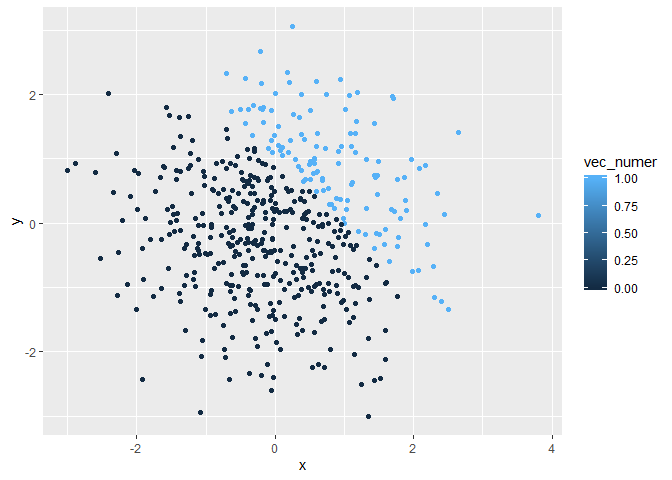
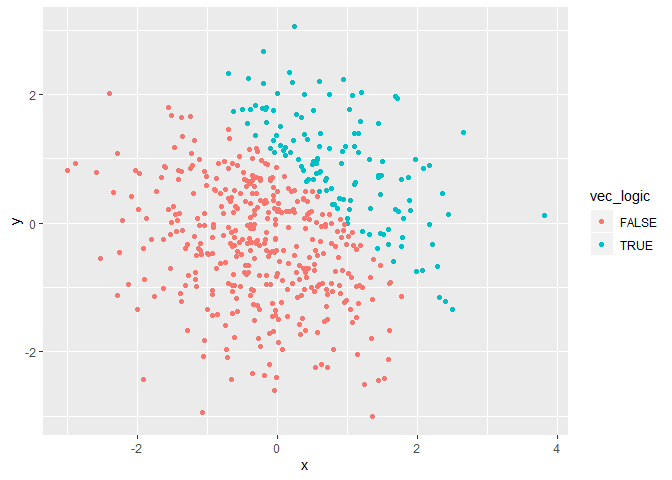
Final ver

diff --git a/p8105_hw1_bl2789.md b/p8105_hw1_bl2789.md
@@ -31,16 +31,22 @@ df_1 = tibble(samp= rnorm(8),
               )
 ```
 
-  - The mean of the sample is 0.1314544.
-  - The mean of the logical vector is 0.625.
-  - The mean of the character vector is NA, showing that the mean
-    function does not work for the character vector.
-  - The mean of the factor vector is NA,, showing that the mean function
-    does not work for the factor vector either.
+``` r
+log = as.numeric(pull(df_1, vec_logical))
+log
+chara = as.numeric(pull(df_1,  vec_chara))
+chara
+fac = as.numeric(pull(df_1, vec_factor))  
+fac
+```
 
-`{{r eval=FALSE}} log = as.numeric(pull(df_1, vec_logical)) log chara =
-as.numeric(pull(df_1, vec_chara)) chara fac = as.numeric(pull(df_1,
-vec_factor)) fac`
+The R compel character and factor variables in to NA, while assign the
+logical varible as either 1 or 0. \* The mean of the sample is
+0.1314544. \* The mean of the logical vector is 0.625. \* The mean of
+the character vector is NA, showing that the mean function does not work
+for the character vector. \* The mean of the factor vector is NA,,
+showing that the mean function does not work for the factor vector
+either.
 
 ## b
 
@@ -98,7 +104,7 @@ set.seed(1)
 ggplot(df_2, aes(x = x, y = y, color = vec_logic)) + geom_point()
 ```
 
-![](p8105_hw1_bl2789_files/figure-gfm/unnamed-chunk-4-1.png)<!-- -->
+![](p8105_hw1_bl2789_files/figure-gfm/unnamed-chunk-5-1.png)<!-- -->
 
 ``` r
 ggsave("df_2.png", width = 4, height = 4)
@@ -108,15 +114,15 @@ ggsave("df_2.png", width = 4, height = 4)
 ggplot(df_2, aes(x = x, y = y,color = vec_numer)) + geom_point()
 ```
 
-![](p8105_hw1_bl2789_files/figure-gfm/unnamed-chunk-5-1.png)<!-- -->
+![](p8105_hw1_bl2789_files/figure-gfm/unnamed-chunk-6-1.png)<!-- -->
 
 ``` r
 ggplot(df_2, aes(x = x, y = y,color = vec_factor)) + geom_point()
 ```
 
-![](p8105_hw1_bl2789_files/figure-gfm/unnamed-chunk-5-2.png)<!-- -->
+![](p8105_hw1_bl2789_files/figure-gfm/unnamed-chunk-6-2.png)<!-- -->
 
 The three graphs showed that the factor and the logical used same
 varible to identify data points. Otherwise, the numeric data has showed
-different index for the data and more subdivisive structure for non
-integer data.
+different index for the data and more subdivisive structure for
+non-integer data.
